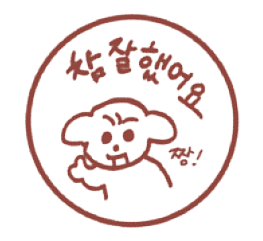
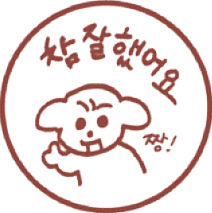
calendar css 및 스탬프 추가 / stamp.png 사진 비율 수정

diff --git a/team_project/src/main/webapp/resources/css/calendar.css b/team_project/src/main/webapp/resources/css/calendar.css
@@ -27,10 +27,9 @@
 /*   font-family: Pretendard; */
 }
 
-/* .dateBoard .divDate { */
-/* 	padding-left: 0px; */
-/* 	padding-right: 0px; */
-/* } */
+.divDate p {
+	margin-bottom: 0px;
+}
 
 label, #main-day, .rap, .dateTitle, .divDate p, .todo-title, #input-box {
 	font-family: "zziba";
@@ -93,7 +92,7 @@ label, #main-day, .rap, .dateTitle, .divDate p, .todo-title, #input-box {
   border-radius: .6rem;
   border: 1px solid #eee;
   width: 100px;
-  height: 100px;
+  height: 120px;
 }
 
 .noColor {
